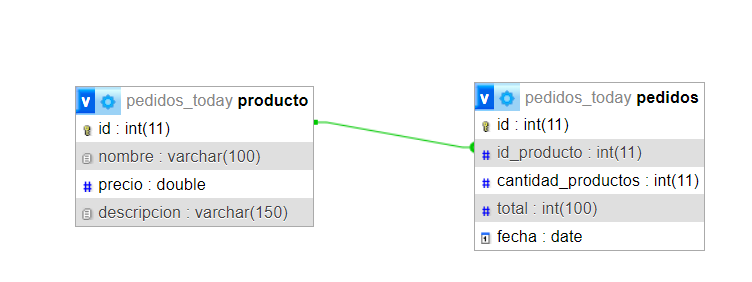
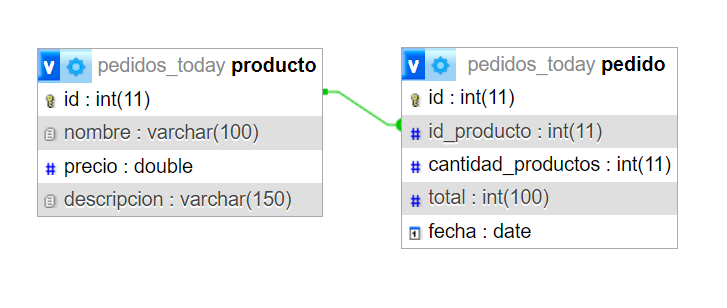
cambio de la tabla pedidos a pedido

diff --git a/README.md b/README.md
@@ -4,4 +4,4 @@ Participantes:
 ![DIAGRAMA](diagrama_base_datos.png)
 Descripcion:
 Elegimos realizar una pagina de pedidos en un local de comidas rapidas. Va a constar inicialmente de dos tablas: una llamada producto, la cual contiene un id de tipo primary, auto incremental; un nombre, de tipo varchar; un precio y una descripcion del producto.
-Y una segunda tabla llamada pedidos, que se relaciona con la tabla producto a traves de su clave foranea id_producto. Tambien cuenta con su id de tipo primary auto incremental; una cantidad_productos; un total, que va a definir el total a pagar y una fecha, de tipo date. 
+Y una segunda tabla llamada pedido, que se relaciona con la tabla producto a traves de su clave foranea id_producto. Tambien cuenta con su id de tipo primary auto incremental; una cantidad_productos; un total, que va a definir el total a pagar y una fecha, de tipo date. 
